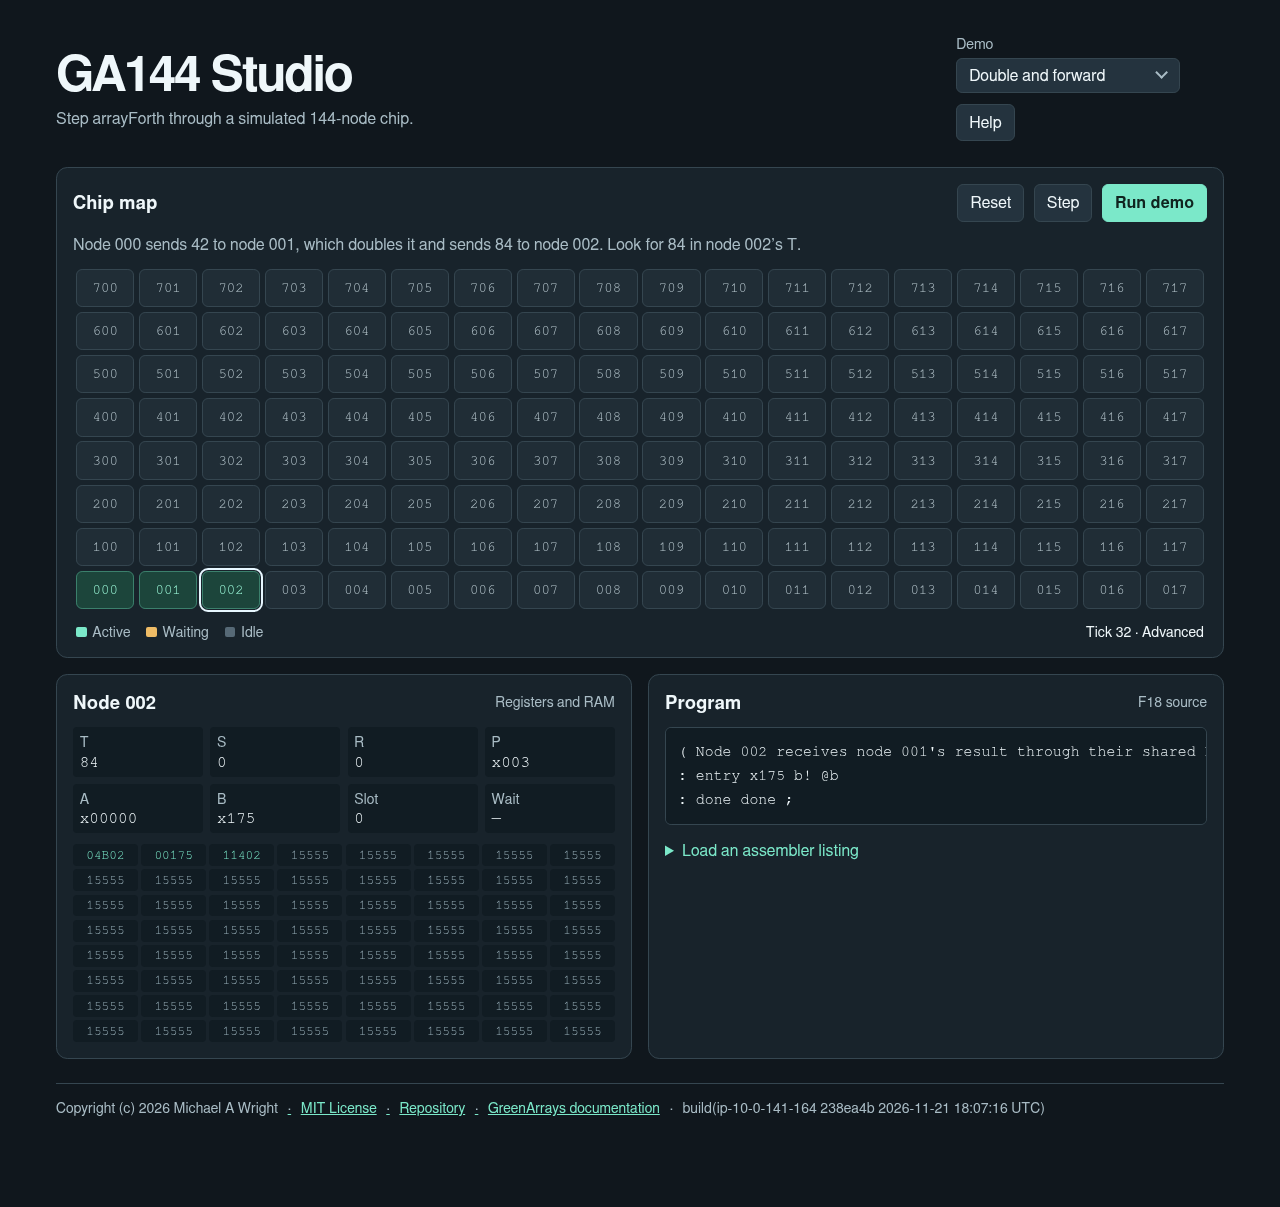
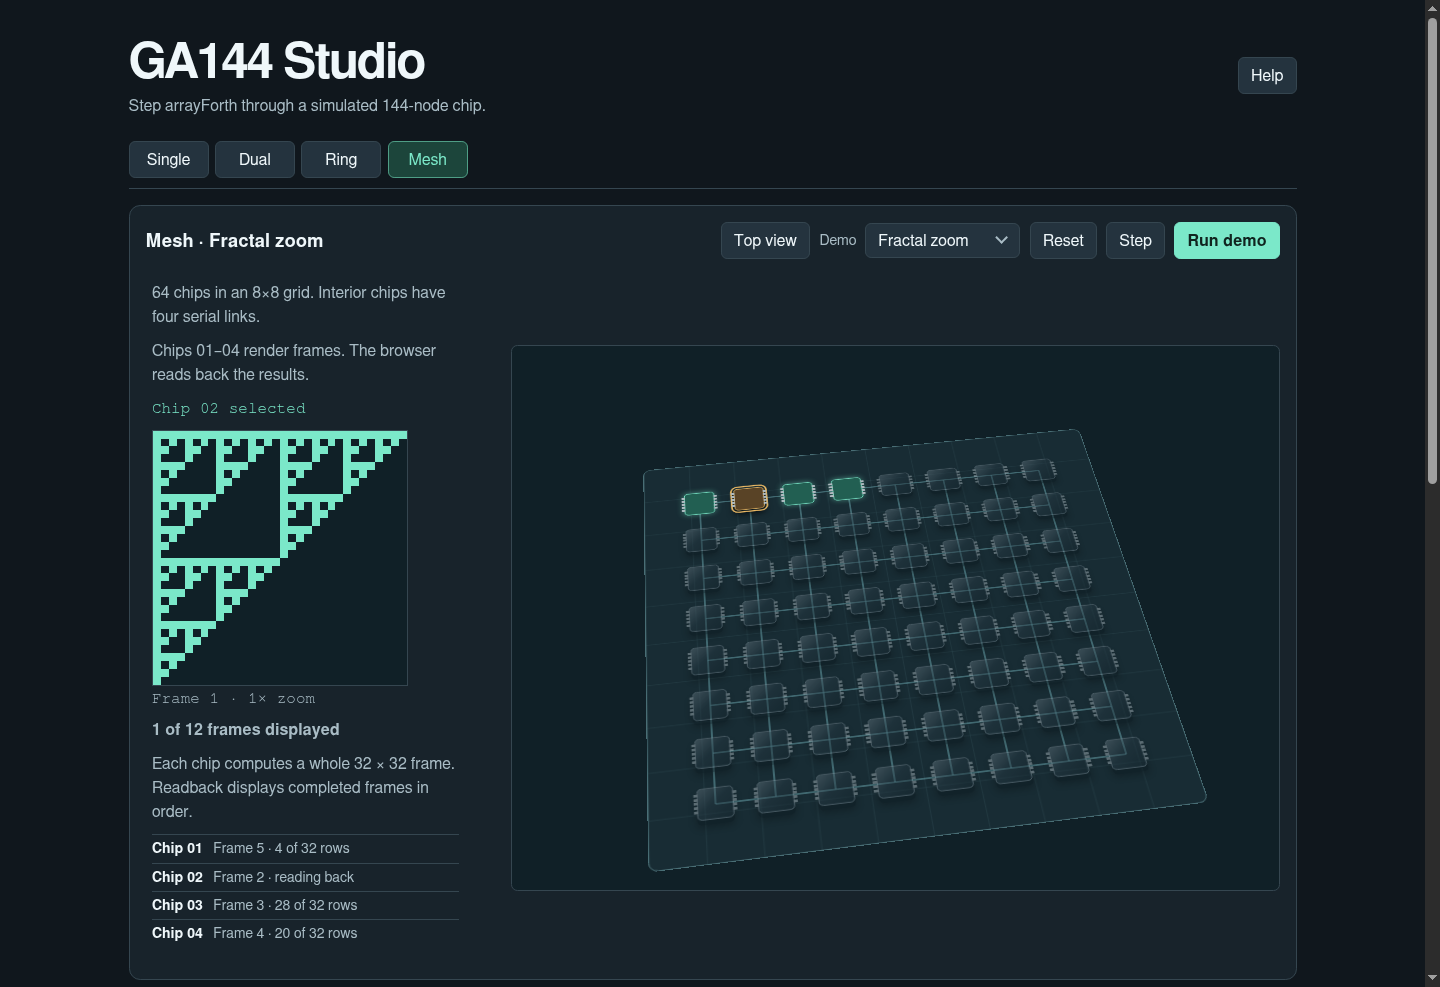
Show the live mesh fractal demo in the README

diff --git a/README.md b/README.md
@@ -13,7 +13,7 @@ calculations and programs that send results across the chip.
 [Open the live GA144 Studio demo](https://sw-embed.github.io/sw-ga144/) |
 [GreenArrays website](https://www.greenarraychips.com/home/)
 
-![GA144 Studio running Double and forward, with 84 in node 002's T register](images/screenshot.png)
+![GA144 Studio running Fractal zoom on the mesh, with one chip reading back a frame while three compute](images/screenshot.png)
 
 This demo is conceptual and based on public documentation. It has not
 been validated against actual GreenArrays hardware or software.
